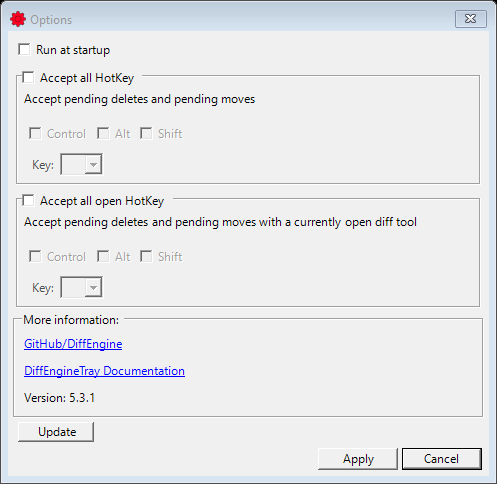
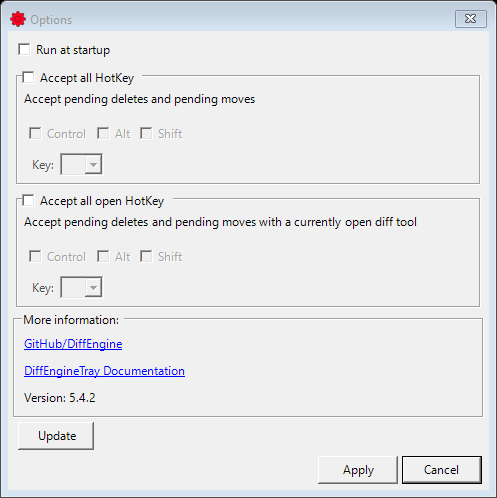
fix button sizes

diff --git a/src/DiffEngineTray/Settings/OptionsForm.Designer.cs b/src/DiffEngineTray/Settings/OptionsForm.Designer.cs
@@ -37,30 +37,32 @@
             this.bottomPanel.Controls.Add(this.save);
             this.bottomPanel.Dock = System.Windows.Forms.DockStyle.Bottom;
             this.bottomPanel.FlowDirection = System.Windows.Forms.FlowDirection.RightToLeft;
-            this.bottomPanel.Location = new System.Drawing.Point(9, 779);
-            this.bottomPanel.Margin = new System.Windows.Forms.Padding(3, 4, 3, 4);
+            this.bottomPanel.Location = new System.Drawing.Point(5, 398);
+            this.bottomPanel.Margin = new System.Windows.Forms.Padding(2, 2, 2, 2);
             this.bottomPanel.Name = "bottomPanel";
-            this.bottomPanel.Size = new System.Drawing.Size(807, 52);
+            this.bottomPanel.Size = new System.Drawing.Size(471, 29);
             this.bottomPanel.TabIndex = 1;
             // 
             // cancel
             // 
+            this.cancel.AutoSize = true;
             this.cancel.DialogResult = System.Windows.Forms.DialogResult.Cancel;
-            this.cancel.Location = new System.Drawing.Point(667, 4);
-            this.cancel.Margin = new System.Windows.Forms.Padding(3, 4, 3, 4);
+            this.cancel.Location = new System.Drawing.Point(389, 2);
+            this.cancel.Margin = new System.Windows.Forms.Padding(2, 2, 2, 2);
             this.cancel.Name = "cancel";
             this.cancel.RightToLeft = System.Windows.Forms.RightToLeft.Yes;
-            this.cancel.Size = new System.Drawing.Size(137, 44);
+            this.cancel.Size = new System.Drawing.Size(80, 25);
             this.cancel.TabIndex = 0;
             this.cancel.Text = "Cancel";
             this.cancel.UseVisualStyleBackColor = true;
             // 
             // save
             // 
-            this.save.Location = new System.Drawing.Point(524, 4);
-            this.save.Margin = new System.Windows.Forms.Padding(3, 4, 3, 4);
+            this.save.AutoSize = true;
+            this.save.Location = new System.Drawing.Point(305, 2);
+            this.save.Margin = new System.Windows.Forms.Padding(2, 2, 2, 2);
             this.save.Name = "save";
-            this.save.Size = new System.Drawing.Size(137, 44);
+            this.save.Size = new System.Drawing.Size(80, 25);
             this.save.TabIndex = 1;
             this.save.Text = "Apply";
             this.save.UseVisualStyleBackColor = true;
@@ -73,11 +75,11 @@
             this.acceptAllHotKey.Help = "Accept pending deletes and pending moves";
             this.acceptAllHotKey.HotKey = null;
             this.acceptAllHotKey.Label = "Accept all HotKey";
-            this.acceptAllHotKey.Location = new System.Drawing.Point(9, 58);
-            this.acceptAllHotKey.Margin = new System.Windows.Forms.Padding(3, 4, 3, 4);
+            this.acceptAllHotKey.Location = new System.Drawing.Point(5, 31);
+            this.acceptAllHotKey.Margin = new System.Windows.Forms.Padding(2, 2, 2, 2);
             this.acceptAllHotKey.Name = "acceptAllHotKey";
-            this.acceptAllHotKey.Padding = new System.Windows.Forms.Padding(5, 6, 5, 6);
-            this.acceptAllHotKey.Size = new System.Drawing.Size(807, 220);
+            this.acceptAllHotKey.Padding = new System.Windows.Forms.Padding(3, 3, 3, 3);
+            this.acceptAllHotKey.Size = new System.Drawing.Size(471, 114);
             this.acceptAllHotKey.TabIndex = 2;
             this.acceptAllHotKey.TabStop = false;
             // 
@@ -85,11 +87,11 @@
             // 
             this.startupCheckBox.AutoSize = true;
             this.startupCheckBox.Dock = System.Windows.Forms.DockStyle.Top;
-            this.startupCheckBox.Location = new System.Drawing.Point(9, 8);
-            this.startupCheckBox.Margin = new System.Windows.Forms.Padding(3, 4, 3, 4);
+            this.startupCheckBox.Location = new System.Drawing.Point(5, 4);
+            this.startupCheckBox.Margin = new System.Windows.Forms.Padding(2, 2, 2, 2);
             this.startupCheckBox.Name = "startupCheckBox";
-            this.startupCheckBox.Padding = new System.Windows.Forms.Padding(9, 8, 9, 8);
-            this.startupCheckBox.Size = new System.Drawing.Size(807, 50);
+            this.startupCheckBox.Padding = new System.Windows.Forms.Padding(5, 4, 5, 4);
+            this.startupCheckBox.Size = new System.Drawing.Size(471, 27);
             this.startupCheckBox.TabIndex = 3;
             this.startupCheckBox.Text = "Run at startup";
             this.startupCheckBox.UseVisualStyleBackColor = true;
@@ -101,11 +103,10 @@
             this.groupBox1.Controls.Add(this.trayDocsLink);
             this.groupBox1.Controls.Add(this.diffEngineLink);
             this.groupBox1.Dock = System.Windows.Forms.DockStyle.Top;
-            this.groupBox1.Location = new System.Drawing.Point(9, 498);
-            this.groupBox1.Margin = new System.Windows.Forms.Padding(5, 6, 5, 6);
+            this.groupBox1.Location = new System.Drawing.Point(5, 259);
             this.groupBox1.Name = "groupBox1";
-            this.groupBox1.Padding = new System.Windows.Forms.Padding(10);
-            this.groupBox1.Size = new System.Drawing.Size(807, 174);
+            this.groupBox1.Padding = new System.Windows.Forms.Padding(6, 5, 6, 5);
+            this.groupBox1.Size = new System.Drawing.Size(471, 89);
             this.groupBox1.TabIndex = 5;
             this.groupBox1.TabStop = false;
             this.groupBox1.Text = "More information:";
@@ -114,11 +115,10 @@
             // 
             this.versionLabel.AutoSize = true;
             this.versionLabel.Dock = System.Windows.Forms.DockStyle.Top;
-            this.versionLabel.Location = new System.Drawing.Point(10, 122);
-            this.versionLabel.Margin = new System.Windows.Forms.Padding(5, 0, 5, 0);
+            this.versionLabel.Location = new System.Drawing.Point(6, 63);
             this.versionLabel.Name = "versionLabel";
-            this.versionLabel.Padding = new System.Windows.Forms.Padding(5, 6, 5, 6);
-            this.versionLabel.Size = new System.Drawing.Size(91, 42);
+            this.versionLabel.Padding = new System.Windows.Forms.Padding(3, 3, 3, 3);
+            this.versionLabel.Size = new System.Drawing.Size(51, 21);
             this.versionLabel.TabIndex = 2;
             this.versionLabel.Text = "Version";
             // 
@@ -126,11 +126,10 @@
             // 
             this.trayDocsLink.AutoSize = true;
             this.trayDocsLink.Dock = System.Windows.Forms.DockStyle.Top;
-            this.trayDocsLink.Location = new System.Drawing.Point(10, 80);
-            this.trayDocsLink.Margin = new System.Windows.Forms.Padding(5, 0, 5, 0);
+            this.trayDocsLink.Location = new System.Drawing.Point(6, 42);
             this.trayDocsLink.Name = "trayDocsLink";
-            this.trayDocsLink.Padding = new System.Windows.Forms.Padding(5, 6, 5, 6);
-            this.trayDocsLink.Size = new System.Drawing.Size(307, 42);
+            this.trayDocsLink.Padding = new System.Windows.Forms.Padding(3, 3, 3, 3);
+            this.trayDocsLink.Size = new System.Drawing.Size(176, 21);
             this.trayDocsLink.TabIndex = 1;
             this.trayDocsLink.TabStop = true;
             this.trayDocsLink.Text = "DiffEngineTray Documentation";
@@ -140,11 +139,10 @@
             // 
             this.diffEngineLink.AutoSize = true;
             this.diffEngineLink.Dock = System.Windows.Forms.DockStyle.Top;
-            this.diffEngineLink.Location = new System.Drawing.Point(10, 38);
-            this.diffEngineLink.Margin = new System.Windows.Forms.Padding(5, 0, 5, 0);
+            this.diffEngineLink.Location = new System.Drawing.Point(6, 21);
             this.diffEngineLink.Name = "diffEngineLink";
-            this.diffEngineLink.Padding = new System.Windows.Forms.Padding(5, 6, 5, 6);
-            this.diffEngineLink.Size = new System.Drawing.Size(193, 42);
+            this.diffEngineLink.Padding = new System.Windows.Forms.Padding(3, 3, 3, 3);
+            this.diffEngineLink.Size = new System.Drawing.Size(111, 21);
             this.diffEngineLink.TabIndex = 0;
             this.diffEngineLink.TabStop = true;
             this.diffEngineLink.Text = "GitHub/DiffEngine";
@@ -157,11 +155,11 @@
             this.acceptOpenHotKey.Help = "Accept pending deletes and pending moves with a currently open diff tool";
             this.acceptOpenHotKey.HotKey = null;
             this.acceptOpenHotKey.Label = "Accept all open HotKey";
-            this.acceptOpenHotKey.Location = new System.Drawing.Point(9, 278);
-            this.acceptOpenHotKey.Margin = new System.Windows.Forms.Padding(3, 4, 3, 4);
+            this.acceptOpenHotKey.Location = new System.Drawing.Point(5, 145);
+            this.acceptOpenHotKey.Margin = new System.Windows.Forms.Padding(2, 2, 2, 2);
             this.acceptOpenHotKey.Name = "acceptOpenHotKey";
-            this.acceptOpenHotKey.Padding = new System.Windows.Forms.Padding(5, 6, 5, 6);
-            this.acceptOpenHotKey.Size = new System.Drawing.Size(807, 220);
+            this.acceptOpenHotKey.Padding = new System.Windows.Forms.Padding(3, 3, 3, 3);
+            this.acceptOpenHotKey.Size = new System.Drawing.Size(471, 114);
             this.acceptOpenHotKey.TabIndex = 6;
             this.acceptOpenHotKey.TabStop = false;
             // 
@@ -170,17 +168,20 @@
             this.flowLayoutPanel1.AutoSize = true;
             this.flowLayoutPanel1.Controls.Add(this.updateButton);
             this.flowLayoutPanel1.Dock = System.Windows.Forms.DockStyle.Top;
-            this.flowLayoutPanel1.Location = new System.Drawing.Point(9, 672);
+            this.flowLayoutPanel1.Location = new System.Drawing.Point(5, 348);
+            this.flowLayoutPanel1.Margin = new System.Windows.Forms.Padding(2, 2, 2, 2);
             this.flowLayoutPanel1.Name = "flowLayoutPanel1";
-            this.flowLayoutPanel1.Padding = new System.Windows.Forms.Padding(5);
-            this.flowLayoutPanel1.Size = new System.Drawing.Size(807, 56);
+            this.flowLayoutPanel1.Padding = new System.Windows.Forms.Padding(3, 2, 3, 2);
+            this.flowLayoutPanel1.Size = new System.Drawing.Size(471, 33);
             this.flowLayoutPanel1.TabIndex = 7;
             // 
             // updateButton
             // 
-            this.updateButton.Location = new System.Drawing.Point(8, 8);
+            this.updateButton.AutoSize = true;
+            this.updateButton.Location = new System.Drawing.Point(5, 4);
+            this.updateButton.Margin = new System.Windows.Forms.Padding(2, 2, 2, 2);
             this.updateButton.Name = "updateButton";
-            this.updateButton.Size = new System.Drawing.Size(131, 40);
+            this.updateButton.Size = new System.Drawing.Size(76, 25);
             this.updateButton.TabIndex = 0;
             this.updateButton.Text = "Update";
             this.updateButton.UseVisualStyleBackColor = true;
@@ -189,11 +190,11 @@
             // OptionsForm
             // 
             this.AcceptButton = this.save;
-            this.AutoScaleDimensions = new System.Drawing.SizeF(12F, 30F);
+            this.AutoScaleDimensions = new System.Drawing.SizeF(7F, 15F);
             this.AutoScaleMode = System.Windows.Forms.AutoScaleMode.Font;
             this.AutoSize = true;
             this.CancelButton = this.cancel;
-            this.ClientSize = new System.Drawing.Size(825, 839);
+            this.ClientSize = new System.Drawing.Size(481, 431);
             this.Controls.Add(this.flowLayoutPanel1);
             this.Controls.Add(this.groupBox1);
             this.Controls.Add(this.bottomPanel);
@@ -201,18 +202,20 @@
             this.Controls.Add(this.acceptAllHotKey);
             this.Controls.Add(this.startupCheckBox);
             this.FormBorderStyle = System.Windows.Forms.FormBorderStyle.FixedDialog;
-            this.Margin = new System.Windows.Forms.Padding(3, 4, 3, 4);
+            this.Margin = new System.Windows.Forms.Padding(2, 2, 2, 2);
             this.MaximizeBox = false;
             this.MinimizeBox = false;
             this.Name = "OptionsForm";
-            this.Padding = new System.Windows.Forms.Padding(9, 8, 9, 8);
+            this.Padding = new System.Windows.Forms.Padding(5, 4, 5, 4);
             this.ShowInTaskbar = false;
             this.SizeGripStyle = System.Windows.Forms.SizeGripStyle.Hide;
             this.Text = "Options";
             this.bottomPanel.ResumeLayout(false);
+            this.bottomPanel.PerformLayout();
             this.groupBox1.ResumeLayout(false);
             this.groupBox1.PerformLayout();
             this.flowLayoutPanel1.ResumeLayout(false);
+            this.flowLayoutPanel1.PerformLayout();
             this.ResumeLayout(false);
             this.PerformLayout();
 
